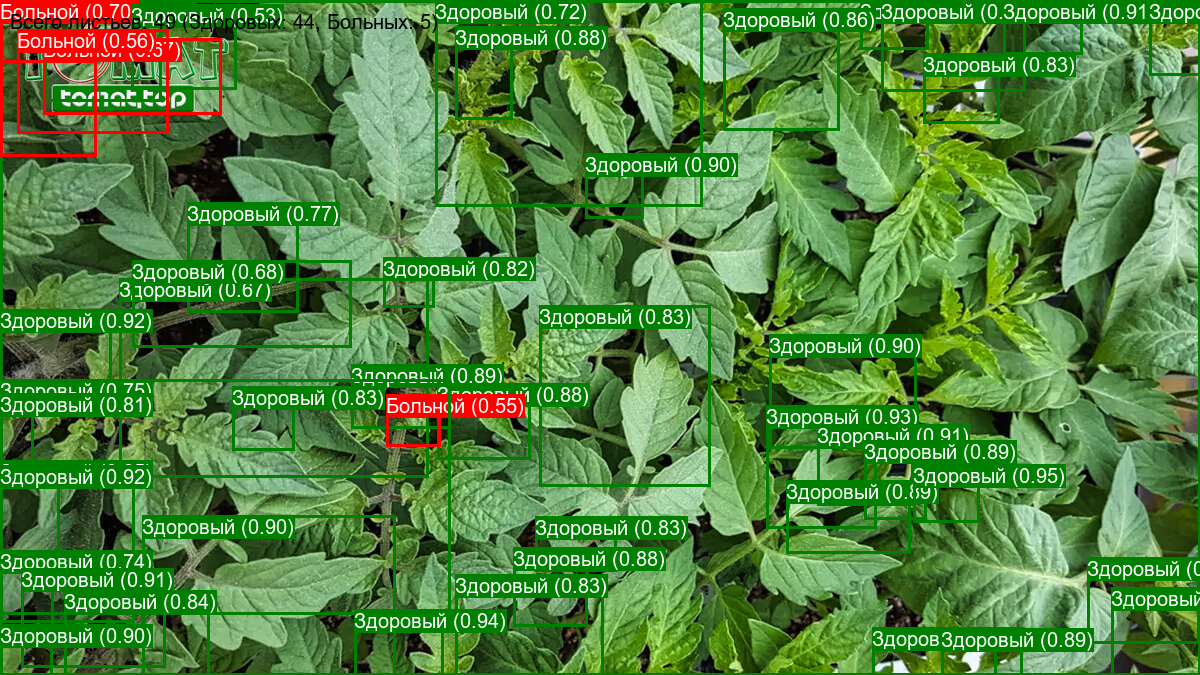
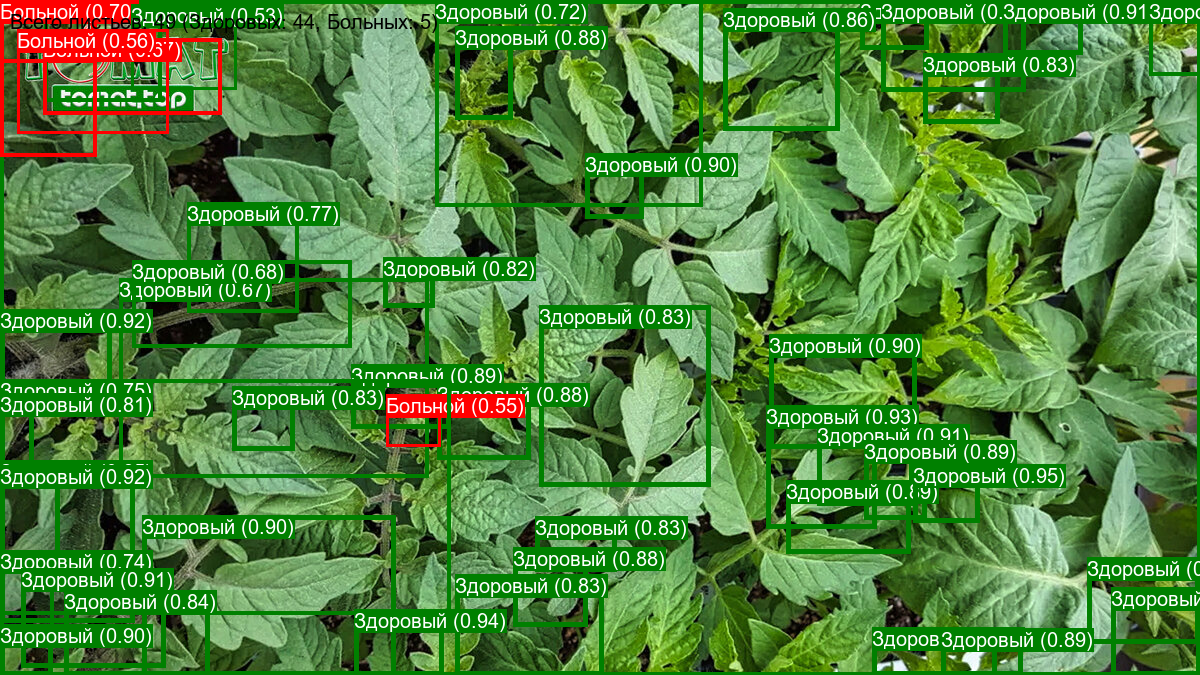
Добавлена зависимость толщины обводки от уверенности модели

diff --git a/tools/cnn_train.py b/tools/cnn_train.py
@@ -1,0 +1,326 @@
+import os
+import torch
+import torch.nn as nn
+import torch.optim as optim
+from torch.optim.lr_scheduler import ReduceLROnPlateau
+import numpy as np
+import matplotlib.pyplot as plt
+from datetime import datetime
+import time
+
+from cnn_model import LeafCNN, save_model, load_model
+from cnn_dataset import prepare_data_loaders
+
+class TrainingMonitor:
+    """
+    Класс для мониторинга процесса обучения
+    """
+    def __init__(self):
+        self.train_losses = []
+        self.val_losses = []
+        self.train_accs = []
+        self.val_accs = []
+        self.start_time = time.time()
+        
+    def update(self, train_loss, train_acc, val_loss, val_acc):
+        """Обновление метрик"""
+        self.train_losses.append(train_loss)
+        self.val_losses.append(val_loss)
+        self.train_accs.append(train_acc)
+        self.val_accs.append(val_acc)
+        
+    def plot_metrics(self, save_path=None):
+        """Построение графиков метрик"""
+        fig, (ax1, ax2) = plt.subplots(1, 2, figsize=(15, 5))
+        
+        # График потерь
+        ax1.plot(self.train_losses, label='Потери на обучении')
+        ax1.plot(self.val_losses, label='Потери на валидации')
+        ax1.set_xlabel('Эпоха')
+        ax1.set_ylabel('Потери')
+        ax1.set_title('Динамика функции потерь')
+        ax1.legend()
+        ax1.grid(True)
+        
+        # График точности
+        ax2.plot(self.train_accs, label='Точность на обучении')
+        ax2.plot(self.val_accs, label='Точность на валидации')
+        ax2.set_xlabel('Эпоха')
+        ax2.set_ylabel('Точность (%)')
+        ax2.set_title('Динамика точности')
+        ax2.legend()
+        ax2.grid(True)
+        
+        plt.tight_layout()
+        
+        if save_path:
+            plt.savefig(save_path)
+            
+        return fig
+
+def train_epoch(model, train_loader, criterion, optimizer, device):
+    """
+    Обучение модели на одной эпохе
+    
+    Args:
+        model: модель
+        train_loader: загрузчик данных для обучения
+        criterion: функция потерь
+        optimizer: оптимизатор
+        device: устройство для вычислений
+        
+    Returns:
+        train_loss, train_acc: средние потери и точность на эпохе
+    """
+    model.train()
+    running_loss = 0.0
+    correct = 0
+    total = 0
+    
+    for inputs, labels in train_loader:
+        inputs, labels = inputs.to(device), labels.to(device)
+        
+        # Обнуляем градиенты
+        optimizer.zero_grad()
+        
+        # Прямой проход
+        outputs = model(inputs)
+        loss = criterion(outputs, labels)
+        
+        # Обратный проход и оптимизация
+        loss.backward()
+        optimizer.step()
+        
+        # Статистика
+        running_loss += loss.item() * inputs.size(0)
+        _, predicted = outputs.max(1)
+        total += labels.size(0)
+        correct += predicted.eq(labels).sum().item()
+        
+        # Вывод прогресса
+        print(f"\rОбработано изображений: {total}/{len(train_loader.dataset)}", end="")
+    
+    # Вычисляем средние значения
+    train_loss = running_loss / total
+    train_acc = 100. * correct / total
+    
+    return train_loss, train_acc
+
+def validate(model, val_loader, criterion, device):
+    """
+    Валидация модели
+    
+    Args:
+        model: модель
+        val_loader: загрузчик данных для валидации
+        criterion: функция потерь
+        device: устройство для вычислений
+        
+    Returns:
+        val_loss, val_acc: средние потери и точность на валидации
+    """
+    model.eval()
+    running_loss = 0.0
+    correct = 0
+    total = 0
+    
+    with torch.no_grad():
+        for inputs, labels in val_loader:
+            inputs, labels = inputs.to(device), labels.to(device)
+            
+            # Прямой проход
+            outputs = model(inputs)
+            loss = criterion(outputs, labels)
+            
+            # Статистика
+            running_loss += loss.item() * inputs.size(0)
+            _, predicted = outputs.max(1)
+            total += labels.size(0)
+            correct += predicted.eq(labels).sum().item()
+    
+    # Вычисляем средние значения
+    val_loss = running_loss / total
+    val_acc = 100. * correct / total
+    
+    return val_loss, val_acc
+
+def test_model(model, test_loader, device):
+    """
+    Тестирование модели
+    
+    Args:
+        model: модель
+        test_loader: загрузчик данных для тестирования
+        device: устройство для вычислений
+        
+    Returns:
+        test_acc: точность на тестовой выборке
+        confusion_matrix: матрица ошибок
+    """
+    model.eval()
+    correct = 0
+    total = 0
+    all_preds = []
+    all_labels = []
+    
+    with torch.no_grad():
+        for inputs, labels in test_loader:
+            inputs, labels = inputs.to(device), labels.to(device)
+            
+            # Прямой проход
+            outputs = model(inputs)
+            
+            # Статистика
+            _, predicted = outputs.max(1)
+            total += labels.size(0)
+            correct += predicted.eq(labels).sum().item()
+            
+            # Сохраняем предсказания и метки для матрицы ошибок
+            all_preds.extend(predicted.cpu().numpy())
+            all_labels.extend(labels.cpu().numpy())
+    
+    # Вычисляем точность
+    test_acc = 100. * correct / total
+    
+    # Вычисляем матрицу ошибок
+    from sklearn.metrics import confusion_matrix
+    cm = confusion_matrix(all_labels, all_preds)
+    
+    return test_acc, cm
+
+def train_and_evaluate(data_dir, num_epochs=20, batch_size=16, learning_rate=1e-4, 
+                      advanced_preprocessing=True, checkpoint_dir=None, max_images_per_class=100):
+    """
+    Полный цикл обучения и оценки модели
+    
+    Args:
+        data_dir: директория с данными
+        num_epochs: количество эпох обучения
+        batch_size: размер батча
+        learning_rate: скорость обучения
+        advanced_preprocessing: использовать ли расширенную предобработку
+        checkpoint_dir: директория для сохранения чекпоинтов
+        max_images_per_class: максимальное количество изображений на класс
+        
+    Returns:
+        model: обученная модель
+        monitor: монитор обучения с метриками
+    """
+    # Определение устройства
+    device = 'cuda' if torch.cuda.is_available() else 'cpu'
+    print(f"Используемое устройство: {device}")
+    
+    # Подготовка данных
+    print("Подготовка данных...")
+    train_loader, val_loader, test_loader = prepare_data_loaders(
+        data_dir, batch_size=batch_size, 
+        advanced_preprocessing=advanced_preprocessing,
+        max_images_per_class=max_images_per_class
+    )
+    print(f"Размер обучающей выборки: {len(train_loader.dataset)}")
+    print(f"Размер валидационной выборки: {len(val_loader.dataset)}")
+    print(f"Размер тестовой выборки: {len(test_loader.dataset)}")
+    
+    # Создание модели
+    print("Создание модели...")
+    model = LeafCNN(num_classes=2, pretrained=True)
+    model = model.to(device)
+    
+    # Определение функции потерь и оптимизатора
+    criterion = nn.CrossEntropyLoss()
+    optimizer = optim.Adam(model.parameters(), lr=learning_rate)
+    scheduler = ReduceLROnPlateau(optimizer, mode='min', factor=0.1, patience=5, verbose=True)
+    
+    # Создание директории для сохранения чекпоинтов
+    if checkpoint_dir is None:
+        checkpoint_dir = os.path.join(os.path.dirname(os.path.dirname(__file__)), 'checkpoints')
+    os.makedirs(checkpoint_dir, exist_ok=True)
+    
+    # Инициализация монитора обучения
+    monitor = TrainingMonitor()
+    
+    # Параметры для early stopping
+    best_val_acc = 0.0
+    early_stopping_counter = 0
+    early_stopping_patience = 25
+    
+    # Цикл обучения
+    print(f"Начало обучения на {num_epochs} эпохах...")
+    for epoch in range(num_epochs):
+        print(f"\nЭпоха {epoch+1}/{num_epochs}")
+        
+        # Обучение на одной эпохе
+        train_loss, train_acc = train_epoch(model, train_loader, criterion, optimizer, device)
+        
+        # Валидация
+        val_loss, val_acc = validate(model, val_loader, criterion, device)
+        
+        # Вывод результатов
+        print(f"\nПотери на обучении: {train_loss:.4f}, Точность: {train_acc:.2f}%")
+        print(f"Потери на валидации: {val_loss:.4f}, Точность: {val_acc:.2f}%")
+        
+        # Обновление learning rate
+        scheduler.step(val_loss)
+        
+        # Обновление монитора
+        monitor.update(train_loss, train_acc, val_loss, val_acc)
+        
+        # Сохранение лучшей модели
+        if val_acc > best_val_acc:
+            best_val_acc = val_acc
+            early_stopping_counter = 0
+            
+            # Сохранение чекпоинта
+            checkpoint_path = os.path.join(
+                checkpoint_dir, 
+                f'best_model_{datetime.now().strftime("%Y%m%d_%H%M%S")}.pth'
+            )
+            
+            save_model(
+                model, optimizer, epoch, 
+                {'loss': val_loss, 'accuracy': val_acc}, 
+                checkpoint_path
+            )
+            
+            print(f"Сохранена новая лучшая модель! Точность: {val_acc:.2f}%")
+        else:
+            early_stopping_counter += 1
+            print(f"Модель не улучшилась. Early stopping: {early_stopping_counter}/{early_stopping_patience}")
+        
+        # Проверка условия early stopping
+        if early_stopping_counter >= early_stopping_patience:
+            print("Early stopping! Прекращение обучения.")
+            break
+    
+    # Построение графиков обучения
+    plots_dir = os.path.join(os.path.dirname(checkpoint_dir), 'logs')
+    os.makedirs(plots_dir, exist_ok=True)
+    plot_path = os.path.join(plots_dir, f'training_metrics_{datetime.now().strftime("%Y%m%d_%H%M%S")}.png')
+    monitor.plot_metrics(save_path=plot_path)
+    
+    # Тестирование модели
+    print("\nТестирование модели...")
+    test_acc, confusion_matrix = test_model(model, test_loader, device)
+    print(f"Точность на тестовой выборке: {test_acc:.2f}%")
+    print("Матрица ошибок:")
+    print(confusion_matrix)
+    
+    # Общее время обучения
+    total_time = time.time() - monitor.start_time
+    print(f"Общее время обучения: {total_time/60:.2f} минут")
+    
+    return model, monitor
+
+if __name__ == '__main__':
+    # Путь к данным
+    data_dir = os.path.join(os.path.dirname(os.path.dirname(__file__)), 'images')
+    
+    # Запуск обучения и оценки
+    model, monitor = train_and_evaluate(
+        data_dir, 
+        num_epochs=25,  
+        batch_size=16,  
+        learning_rate=1e-4,
+        advanced_preprocessing=True,
+        max_images_per_class=700  # Увеличиваем до 500 изображений на класс
+    )

diff --git a/tools/detect_leaves.py b/tools/detect_leaves.py
@@ -170,8 +170,11 @@ def detect_leaves(image_path, model_path, output_path=None, device='cpu',
                 
             print(f"Лист {leaf_count}: {label_text}")
             
-            # Рисуем прямоугольник и текст
-            draw.rectangle([x, y, x+w, y+h], outline=color, width=3)
+            # Расчет толщины линии на основе уверенности (от 1 до 6 пикселей)
+            line_width = int(1 + confidence * 5)  # min=1, max=6
+            
+            # Рисуем прямоугольник и текст с изменяемой толщиной
+            draw.rectangle([x, y, x+w, y+h], outline=color, width=line_width)
             
             # Добавляем черный фон для текста для лучшей видимости
             text_w, text_h = font.getsize(label_text) if hasattr(font, 'getsize') else draw.textbbox((0, 0), label_text, font=font)[2:4]
